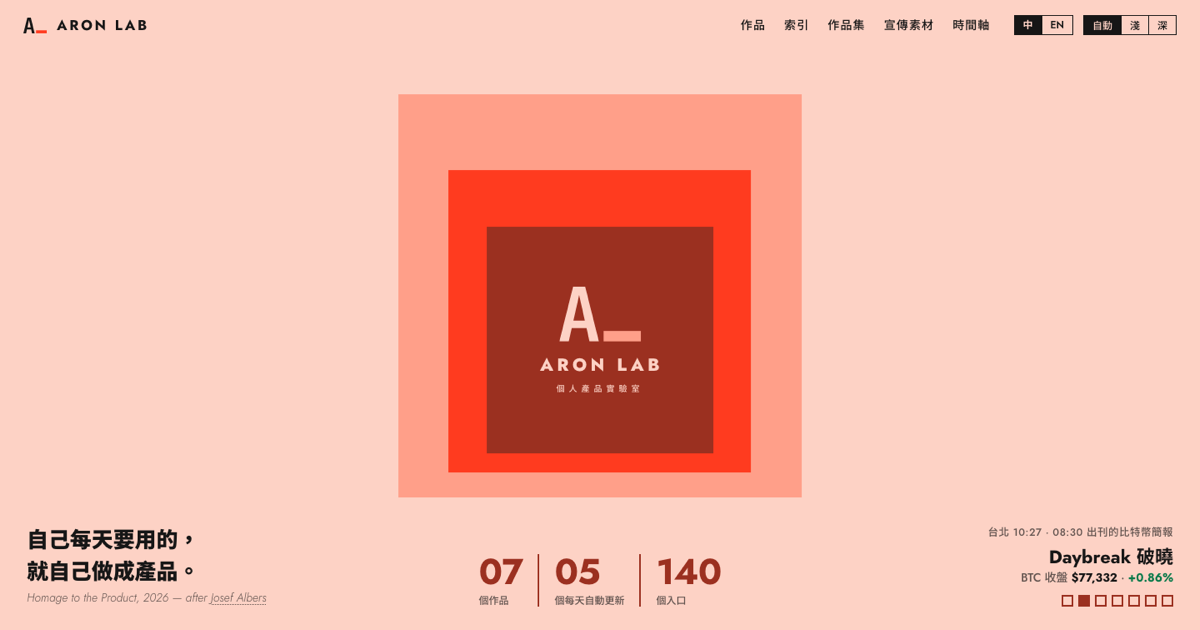
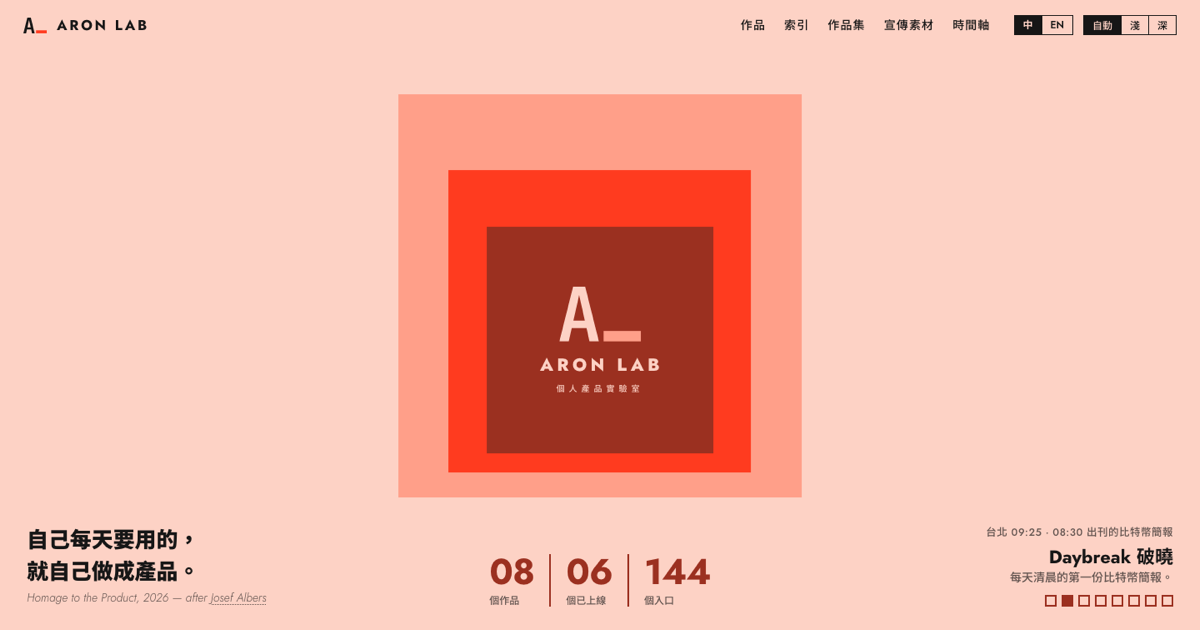
加入 No.08 PayPulse 薪跳（上班鼓勵器）
- data/lab.js：新作品 PayPulse，新增「職場」領域，中英文說明、6 個功能區塊
- 首屏：平日 17:00 起改放 PayPulse 倒數下班；底部數字改成「已上線」
- 作品色場的職場符號是菱形
- 封面：covers.sh 可以先塞示範設定和固定時間再拍（PayPulse 第一次開會跳設定）
- 分享圖、README、404 頁註解同步更新

Changed region(s): [[0.4008, 0.8746, 0.6167, 0.9651], [0.8325, 0.9048, 0.9867, 0.9651], [0.8325, 0.8444, 0.8633, 0.8746]]

diff --git a/data/lab.js b/data/lab.js
@@ -2,7 +2,7 @@
 // 欄位說明見 README.md。網址可以寫完整網址，或寫相對於 site 的路徑（例如 '#news'、'en/'）。
 // 英文版：每一筆都可以帶 en。字串＝英文標題；物件＝要換成英文的欄位（例如 { tagline, desc }，網址也可以換）。沒寫的就沿用中文。
 window.LAB = {
-  updated: '2026-10-25',
+  updated: '2026-11-05',
   owner: {
     name: 'Aron Song',
     github: 'https://github.com/North7',
@@ -11,8 +11,8 @@ window.LAB = {
     portfolio: 'https://north7.github.io/portfolio/',
   },
 
-  domains: { crypto: '加密貨幣', stocks: '股市', sport: '運動', health: '健康' },
-  en: { domains: { crypto: 'Crypto', stocks: 'Stocks', sport: 'Sport', health: 'Health' } },
+  domains: { crypto: '加密貨幣', stocks: '股市', sport: '運動', health: '健康', work: '職場' },
+  en: { domains: { crypto: 'Crypto', stocks: 'Stocks', sport: 'Sport', health: 'Health', work: 'Work' } },
 
   products: [
     {
@@ -329,6 +329,39 @@ window.LAB = {
         { t: '紙上交易評估與停用規則 RULES.md', u: 'https://github.com/North7/signals/blob/main/RULES.md', type: 'data', en: 'Paper-trading review and shutdown rules RULES.md' },
         { t: '本機版（記錄成交、切換正式資金）', u: 'http://127.0.0.1:8787/', type: 'local', en: 'Local version (record fills, switch to real money)' },
         { t: '原始碼', u: 'https://github.com/North7/signals', type: 'repo', en: 'Source code' },
+      ],
+    },
+    {
+      id: 'paypulse', no: '08', name: 'PayPulse', zh: '薪跳',
+      color: '#E2BD68',
+      domains: ['work'], kind: '小工具',
+      status: 'live', cadence: '每秒跳動',
+      started: '2026-11-04',
+      tagline: '上班鼓勵器，每一秒都在為你入帳。',
+      desc: '填好月薪或時薪和上下班時間，畫面就即時跳出今天已經賺了多少，算到小數點後四位。旁邊有下班倒數、本月累計、今天的薪水換得到幾杯珍奶，還會算帶薪摸魚賺了多少；按 B 是老闆鍵，金額全部模糊。資料只存在自己的瀏覽器。',
+      facts: ['資料只留在瀏覽器', '按 B 一鍵隱藏金額', '下班瞬間放彩帶'],
+      en: {
+        zh: 'Workday Motivator', kind: 'Widget', cadence: 'Ticks every second', sectionsLabel: 'Feature', ui: 'zh',
+        tagline: 'Every second of the workday, money comes in.',
+        desc: "Enter a monthly or hourly wage and your working hours, and it shows what you've earned so far today, live to four decimal places. Alongside: a countdown to clocking off, the month so far, how many bubble teas today's pay already covers, and what your slacking-off time earned. Press B for the boss key, which blurs every amount. Your data stays in your own browser.",
+        facts: ['Data stays in your browser', 'Press B to hide every amount', 'Confetti the second you clock off'],
+      },
+      site: 'https://north7.github.io/paypulse/',
+      repo: 'https://github.com/North7/paypulse',
+      cover: 'assets/covers/paypulse.jpg',
+      logo: '<svg viewBox="0 0 64 64"><defs><linearGradient id="lg-pp" x1="0" y1="0" x2="0" y2="1"><stop offset="0" stop-color="#f8e6b0"/><stop offset="1" stop-color="#c8973f"/></linearGradient></defs><rect width="64" height="64" rx="16" fill="#09090b"/><path d="M8 34h12l5-12 8 22 6-16 4 6h13" fill="none" stroke="url(#lg-pp)" stroke-width="4.5" stroke-linecap="round" stroke-linejoin="round"/></svg>',
+      sectionsLabel: '功能',
+      // 單頁小工具：只有「今日已入帳」和「帶薪摸魚」有錨點，其他功能只列名稱
+      sections: [
+        { n: '01', t: '今日已入帳', u: '#hero', en: 'Earned today' },
+        { n: '02', t: '下班倒數', en: 'Countdown to clocking off' },
+        { n: '03', t: '本月累計', en: 'Month to date' },
+        { n: '04', t: '今日戰利品', en: "Today's haul" },
+        { n: '05', t: '帶薪摸魚', u: '#fish', en: 'Paid slacking' },
+        { n: '06', t: '老闆鍵', en: 'Boss key' },
+      ],
+      links: [
+        { t: '原始碼', u: 'https://github.com/North7/paypulse', type: 'repo', en: 'Source code' },
       ],
     },
   ],

diff --git a/assets/app.js b/assets/app.js
@@ -130,7 +130,7 @@
   // ── 首屏數字 ──
   const first = P.map((p) => p.started).sort()[0];
   $('stats').innerHTML = [
-    [pad(P.length), tr('個作品', 'works')], [pad(P.filter((p) => p.status === 'live').length), tr('個每天自動更新', 'update daily')],
+    [pad(P.length), tr('個作品', 'works')], [pad(P.filter((p) => p.status === 'live').length), tr('個已上線', 'live')],
     [entries.length, tr('個入口', 'entries')],
   ].map(([n, t]) => `<div><dt>${n}</dt><dd>${t}</dd></div>`).join('');
 
@@ -138,7 +138,8 @@
   const hero = $('hero'), topBar = $('top');
   hero.classList.add('pc'); topBar.classList.add('pc');
   // 先放「台北現在這個時間」該看的作品，時刻照各作品的排程：
-  // Morningbell 晨刊 07:00（週二到週六）、午後刊 16:00（週一到週五）；Tidemark 08:15、Daybreak 08:30；Signal Tower 每根 4 小時 K 線收盤時檢查
+  // Morningbell 晨刊 07:00（週二到週六）、午後刊 16:00（週一到週五）；Tidemark 08:15、Daybreak 08:30；Signal Tower 每根 4 小時 K 線收盤時檢查；
+  // 平日 17:00 起換 PayPulse 倒數下班（照它的預設工時 09:00–18:00），20:00 再回到行情
   const tpeNow = () => {
     const t = Object.fromEntries(new Intl.DateTimeFormat('en-US', { timeZone: 'Asia/Taipei', weekday: 'short', hour: '2-digit', minute: '2-digit', hourCycle: 'h23' }).formatToParts(new Date()).map((x) => [x.type, x.value]));
     return { h: +t.hour, m: +t.minute, dow: ['Sun', 'Mon', 'Tue', 'Wed', 'Thu', 'Fri', 'Sat'].indexOf(t.weekday), hm: `${t.hour}:${t.minute}` };
@@ -150,6 +151,7 @@
     [8 * 60 + 30, 'daybreak', () => tr('08:30 出刊的比特幣簡報', 'the Bitcoin brief, out at 08:30')],
     [12 * 60, 'signals', (t) => { const hh = pad(Math.floor(t.h / 4) * 4); return tr(`4 小時 K 線 ${hh}:00 收盤`, `4-hour candle closed at ${hh}:00`); }],
     [16 * 60, 'morningbell', () => tr('16:00 午後刊：台股收盤', '16:00 afternoon edition: the Taiwan close'), [1, 2, 3, 4, 5]],
+    [17 * 60, 'paypulse', (t) => (t.h < 18 ? tr(`離 18:00 下班還有 ${60 - t.m} 分鐘`, `${60 - t.m} min until clocking off at 18:00`) : tr('下班了，今天的薪水全數入帳', "clocked off: today's pay is all in")), [1, 2, 3, 4, 5]],
     [20 * 60, 'market-ticker', () => tr('BTC 不收盤，行情一直在跳', 'BTC never closes; the price keeps moving')],
   ];
   const pickNow = () => {
@@ -207,6 +209,7 @@
     stocks: '<svg viewBox="0 0 100 100"><rect width="100" height="100"/></svg>',
     sport: '<svg viewBox="0 0 100 100"><polygon points="50,0 100,100 0,100"/></svg>',
     health: '<svg viewBox="0 0 100 100"><path d="M0 100 A50 50 0 0 1 100 100 Z"/></svg>',
+    work: '<svg viewBox="0 0 100 100"><polygon points="50,0 100,50 50,100 0,50"/></svg>',
   };
   const STATUS = tr({ live: '已上線', local: '本機', private: '私人' }, { live: 'Live', local: 'Local', private: 'Private' });
   const inZh = tr('', ' (Chinese)');

diff --git a/404.html b/404.html
@@ -22,7 +22,7 @@ try { var t = localStorage.getItem('lab.theme'); if (t === 'light' || t === 'dar
 </script>
 <style>
 /* 404：沿用首頁的色場，只是最裡面那一格是空的。GitHub Pages 會在任何打錯的網址底下送出這頁，所以路徑一律從根目錄寫。
-   原檔在 North7/north7.github.io；同一份也複製到各作品的 repo（daybreak、tidemark/docs、morningbell、market-ticker/public、signals/paper/web、portfolio），改的話一起更新。 */
+   原檔在 North7/north7.github.io；同一份也複製到各作品的 repo（daybreak、tidemark/docs、morningbell、market-ticker/public、signals/paper/web、portfolio、paypulse），改的話一起更新。 */
 :root { --base: #F4F1EA; --deep: #0E0E0E; --tx: #161616; --tx2: rgba(22,22,22,.68); --line: rgba(22,22,22,.16); --geo: 'Jost', 'Noto Sans TC', system-ui, sans-serif; --cjk: 'Noto Sans TC', system-ui, sans-serif; color-scheme: light; }
 @media (prefers-color-scheme: dark) { :root:not([data-theme="light"]) { --base: #141414; --deep: #FFFFFF; --tx: #F1EEE7; --tx2: rgba(241,238,231,.7); --line: rgba(241,238,231,.18); color-scheme: dark; } }
 :root[data-theme="dark"] { --base: #141414; --deep: #FFFFFF; --tx: #F1EEE7; --tx2: rgba(241,238,231,.7); --line: rgba(241,238,231,.18); color-scheme: dark; }

diff --git a/index.html b/index.html
@@ -4,7 +4,7 @@
 <meta charset="utf-8">
 <meta name="viewport" content="width=device-width, initial-scale=1, viewport-fit=cover">
 <title>Aron Lab · 作品索引</title>
-<meta name="description" content="Aron Song 的個人產品實驗室：Tidemark、Daybreak、Morningbell、Market Ticker、OneStroke、Baseline、Signal Tower，所有作品的入口、分頁索引與作品集。Aron Song's personal product lab: every work, page and case study in one index.">
+<meta name="description" content="Aron Song 的個人產品實驗室：Tidemark、Daybreak、Morningbell、Market Ticker、OneStroke、Baseline、Signal Tower、PayPulse，所有作品的入口、分頁索引與作品集。Aron Song's personal product lab: every work, page and case study in one index.">
 <meta name="theme-color" content="#E3EFEA" media="(prefers-color-scheme: light)">
 <meta name="theme-color" content="#141414" media="(prefers-color-scheme: dark)">
 <meta property="og:type" content="website">
